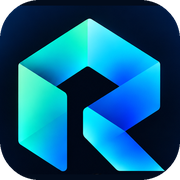
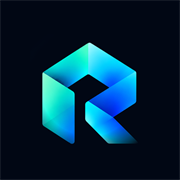
Match main to the live site and remove the portfolio card
Brings in what rafaqtech.com already serves (new domain, icons, Arabic
name, contact form via /api/contact), then removes the Ahmad Alshakhshir
portfolio card and the footer Portfolio link in English and Arabic.

diff --git a/index.html b/index.html
@@ -8,26 +8,26 @@
   <meta name="theme-color" content="#010714">
   <meta property="og:title" content="RafaqTech | Websites, Mobile Apps, AI &amp; UI/UX Design">
   <meta property="og:description" content="Web and mobile development, AI engineering, data science and UI/UX design.">
-  <meta property="og:image" content="https://rafaqtec.com/assets/og-image.jpg">
+  <meta property="og:image" content="https://rafaqtech.com/assets/og-logo.jpg">
   <meta property="og:image:width" content="1200">
   <meta property="og:image:height" content="675">
   <meta property="og:type" content="website">
-  <meta property="og:url" content="https://rafaqtec.com/">
+  <meta property="og:url" content="https://rafaqtech.com/">
   <meta name="twitter:card" content="summary_large_image">
   <meta name="twitter:title" content="RafaqTech | Websites, Mobile Apps, AI &amp; UI/UX Design">
   <meta name="twitter:description" content="Web and mobile development, AI engineering, data science and UI/UX design.">
-  <meta name="twitter:image" content="https://rafaqtec.com/assets/og-image.jpg">
+  <meta name="twitter:image" content="https://rafaqtech.com/assets/og-logo.jpg">
   <script type="application/ld+json">
   {
     "@context": "https://schema.org",
     "@type": "ProfessionalService",
     "name": "RafaqTech",
-    "alternateName": "Rafaq Technologies",
+    "alternateName": "رفق تك",
     "slogan": "Stronger Together",
     "email": "rafaqtec@gmail.com",
     "sameAs": ["https://www.facebook.com/share/19hFidNuvE/?mibextid=wwXIfr", "https://www.instagram.com/rafaq_tech?xtok=cnd1Y2RoenpnOGU1"],
-    "url": "https://rafaqtec.com/",
-    "logo": "https://rafaqtec.com/assets/logo-mark-192.png",
+    "url": "https://rafaqtech.com/",
+    "logo": "https://rafaqtech.com/assets/favicon-192.png",
     "description": "RafaqTech builds full stack websites, mobile apps, AI and machine learning, data science and UI/UX design, in Arabic and English.",
     "knowsLanguage": ["en", "ar"],
     "makesOffer": [
@@ -39,11 +39,24 @@
     ]
   }
   </script>
-  <link rel="alternate" hreflang="en" href="https://rafaqtec.com/">
-  <link rel="alternate" hreflang="ar" href="https://rafaqtec.com/?lang=ar">
-  <link rel="alternate" hreflang="x-default" href="https://rafaqtec.com/">
-  <link rel="canonical" href="https://rafaqtec.com/">
-  <link rel="icon" type="image/png" sizes="32x32" href="assets/favicon-32.png">
+  <script type="application/ld+json">
+  {
+    "@context": "https://schema.org",
+    "@type": "WebSite",
+    "name": "RafaqTech",
+    "alternateName": ["رفق تك"],
+    "url": "https://rafaqtech.com/",
+    "inLanguage": ["en", "ar"]
+  }
+  </script>
+  <link rel="alternate" hreflang="en" href="https://rafaqtech.com/">
+  <link rel="alternate" hreflang="ar" href="https://rafaqtech.com/?lang=ar">
+  <link rel="alternate" hreflang="x-default" href="https://rafaqtech.com/">
+  <link rel="canonical" href="https://rafaqtech.com/">
+  <link rel="icon" href="/favicon.ico" sizes="any">
+  <link rel="icon" type="image/png" sizes="48x48" href="assets/favicon-48.png">
+  <link rel="icon" type="image/png" sizes="96x96" href="assets/favicon-96.png">
+  <link rel="icon" type="image/png" sizes="192x192" href="assets/favicon-192.png">
   <link rel="apple-touch-icon" href="assets/apple-touch-icon.png">
   <link rel="preconnect" href="https://fonts.googleapis.com">
   <link rel="preconnect" href="https://fonts.gstatic.com" crossorigin>
@@ -57,7 +70,7 @@
       document.documentElement.setAttribute("data-theme", t);
     })();
   </script>
-  <link rel="stylesheet" href="css/style.css?v=35">
+  <link rel="stylesheet" href="css/style.css?v=36">
   <link rel="stylesheet" href="css/chatbot.css?v=7">
 </head>
 <body>
@@ -369,9 +382,9 @@
   <script src="https://cdnjs.cloudflare.com/ajax/libs/gsap/3.12.5/gsap.min.js"></script>
   <script src="https://cdnjs.cloudflare.com/ajax/libs/gsap/3.12.5/ScrollTrigger.min.js"></script>
   <script src="https://cdn.jsdelivr.net/npm/lenis@1.1.13/dist/lenis.min.js"></script>
-  <script src="js/i18n.js?v=20"></script>
+  <script src="js/i18n.js?v=25"></script>
   <script src="js/fluid.js?v=13"></script>
-  <script src="js/main.js?v=27"></script>
-  <script src="js/chatbot.js?v=11"></script>
+  <script src="js/main.js?v=30"></script>
+  <script src="js/chatbot.js?v=12"></script>
 </body>
 </html>

diff --git a/js/main.js b/js/main.js
@@ -56,7 +56,7 @@
       const ar = I18N.ar[n.dataset.i18n];
       n.innerHTML = next === "ar" && ar ? ar : n.dataset.en;
     });
-    document.title = next === "ar" ? "رفاق تك | مواقع وتطبيقات وذكاء اصطناعي وتصميم UI/UX" : "RafaqTech | Websites, Mobile Apps, AI & UI/UX Design";
+    document.title = next === "ar" ? "رفق تك | مواقع وتطبيقات وذكاء اصطناعي وتصميم UI/UX" : "RafaqTech | Websites, Mobile Apps, AI & UI/UX Design";
     try { localStorage.setItem("rafaq-lang", next); } catch (e) {}
     if (animate && hasGSAP && !reduce) {
       gsap.fromTo("main, .nav-links, .footer", { opacity: 0.2 }, { opacity: 1, duration: 0.6, ease: "power2.out" });
@@ -598,10 +598,8 @@
   })();
 
   /* ---------------- Contact form ---------------- */
-  // Messages go straight to the company inbox through FormSubmit (no server needed).
-  // The very first message triggers a one-time "Activate" email to this address.
-  const CONTACT = { email: "rafaqtec@gmail.com" };
-  const FORM_ENDPOINT = `https://formsubmit.co/ajax/${CONTACT.email}`;
+  // Messages go to the Worker (/api/contact), which saves each one first and then sends it to the company inbox.
+  const CONTACT_ENDPOINT = "/api/contact";
 
   const form = $("#contact-form");
   const note = $("#form-note");
@@ -636,24 +634,21 @@
     const idle = sendLabel.textContent;
     sendLabel.textContent = t("ct.sending");
     try {
-      const res = await fetch(FORM_ENDPOINT, {
+      const res = await fetch(CONTACT_ENDPOINT, {
         method: "POST",
         headers: { "Content-Type": "application/json", Accept: "application/json" },
         body: JSON.stringify({
-          name, email, services: services.join(", ") || "-", message,
-          _subject: subject, _template: "table", _captcha: "false",
-          _honey: form.querySelector('input[name="_honey"]').value,
+          name, email, services: services.join(", ") || "-", message, subject,
+          website: form.querySelector('input[name="_honey"]').value,
         }),
       });
       const data = await res.json().catch(() => ({}));
-      if (!res.ok || String(data.success) !== "true") throw new Error(data.message || res.status);
+      if (!res.ok || !data.ok) throw new Error(data.error || res.status);
       showNote(t("ct.ok"));
       form.reset();
     } catch (err) {
-      // If the service can't be reached, don't lose the message: open the visitor's email app instead
-      const body = [`${t("ct.name")}: ${name}`, `${t("ct.email")}: ${email}`, services.length ? `${t("ct.need")}: ${services.join(", ")}` : "", "", message].join("\n");
+      // Nothing is lost: the text stays in the form, so the visitor can press Send again.
       showNote(t("ct.fail"), true);
-      location.href = `mailto:${CONTACT.email}?subject=${encodeURIComponent(subject)}&body=${encodeURIComponent(body)}`;
     } finally {
       sendBtn.disabled = false;
       sendBtn.removeAttribute("aria-busy");

diff --git a/js/i18n.js b/js/i18n.js
@@ -43,7 +43,7 @@ window.RAFAQ_I18N = {
     "hero.l1": "نصمّم ونبني",
     "hero.l2": "مواقع وتطبيقات وذكاء اصطناعي.",
     "hero.l3": "من الفكرة إلى الإطلاق.",
-    "about.copy": "رفاق تك تصمّم وتبني المنتجات الرقمية من الفكرة إلى الإطلاق: واجهات، مواقع وتطبيقات جوال، والذكاء الاصطناعي وعلم البيانات خلفها. فريق واحد بلا تسليم بين أقسام، من أول رسمة إلى ما يستخدمه الناس فعلًا.",
+    "about.copy": "رفق تك تصمّم وتبني المنتجات الرقمية من الفكرة إلى الإطلاق: واجهات، مواقع وتطبيقات جوال، والذكاء الاصطناعي وعلم البيانات خلفها. فريق واحد بلا تسليم بين أقسام، من أول رسمة إلى ما يستخدمه الناس فعلًا.",
     "cx.core": "فريقنا",
     "cx.web": "مطوّر متكامل",
     "cx.web.s": "مواقع وتطبيقات متكاملة",
@@ -118,9 +118,8 @@ window.RAFAQ_I18N = {
     "ct.err": "يرجى تعبئة الاسم والبريد الإلكتروني والرسالة بشكل صحيح.",
     "ct.subject": "استفسار عن مشروع من {name}",
     "work.interest": "مرحباً، يهمّني مشروع مثل {name}. ",
-    "ct.mail": "يُفتح الآن تطبيق البريد ورسالتك جاهزة. اضغط إرسال فقط.",
     "ct.sending": "جارٍ الإرسال...",
-    "ct.fail": "تعذّر الإرسال الآن، لذلك نفتح لك تطبيق البريد ورسالتك جاهزة. اضغط إرسال فقط.",
+    "ct.fail": "تعذّر الإرسال الآن. رسالتك ما زالت في النموذج، اضغط إرسال مرة ثانية.",
 
     "ft.rights": "جميع الحقوق محفوظة.",
     "cursor.view": "عرض"
@@ -130,9 +129,8 @@ window.RAFAQ_I18N = {
     "ct.ok": "Thank you! Your message is in. We'll be in touch shortly.",
     "ct.err": "Please fill in your name, a valid email and a message.",
     "ct.subject": "Project enquiry from {name}",
-    "ct.mail": "Your email app is opening with your message ready. Just press Send.",
     "ct.sending": "Sending...",
-    "ct.fail": "We couldn't send it just now, so your email app is opening with your message ready. Just press Send.",
+    "ct.fail": "We could not send it just now. Your message is still in the form, so press Send again.",
     "ct.name": "Name",
     "ct.email": "Email",
     "ct.need": "Services",

diff --git a/js/chatbot.js b/js/chatbot.js
@@ -187,14 +187,14 @@
       prefill: "Hi, I have a question: "
     },
     ar: {
-      name: "مساعد رفاق",
+      name: "مساعد رفق",
       faqTitle: "الأسئلة الشائعة",
       faqIntro: "اطّلع على الإجابات السريعة أو ابدأ محادثة أدناه.",
       startChat: "ابدأ محادثة",
       resumeChat: "تابع المحادثة",
       backFaq: "الأسئلة الشائعة",
       teaser: "أهلاً! عندك سؤال؟ أقدر أساعدك.",
-      welcome: "أهلاً، أنا مساعد رفاق. 👋 أقدر أخبرك عن خدماتنا والأسعار والمدة وطريقة عملنا. بماذا تفكر؟",
+      welcome: "أهلاً، أنا مساعد رفق. 👋 أقدر أخبرك عن خدماتنا والأسعار والمدة وطريقة عملنا. بماذا تفكر؟",
       placeholder: "اكتب سؤالك…",
       send: "إرسال",
       open: "افتح المساعد",
